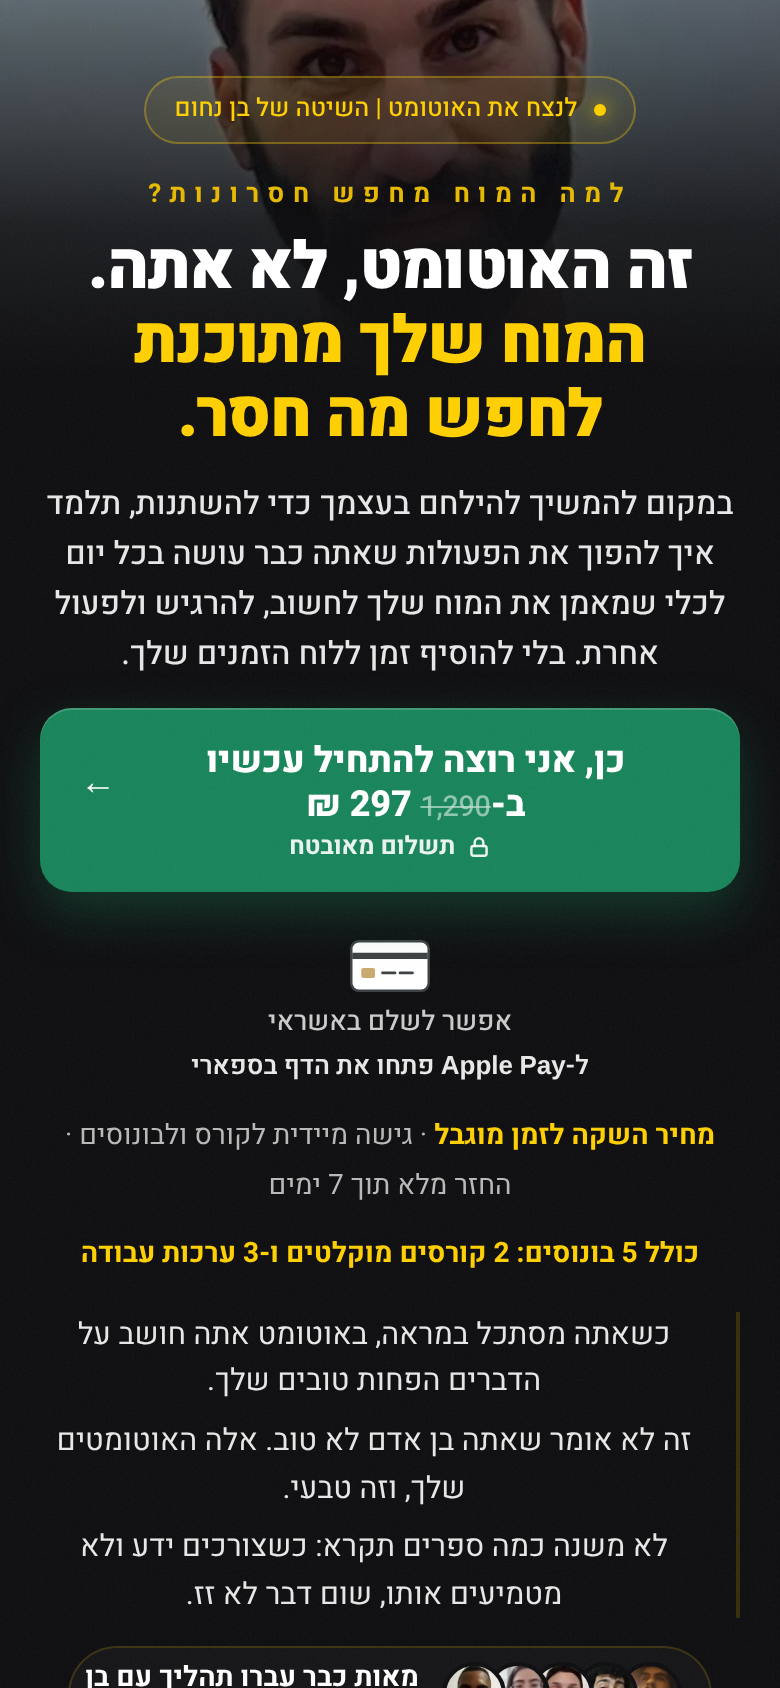
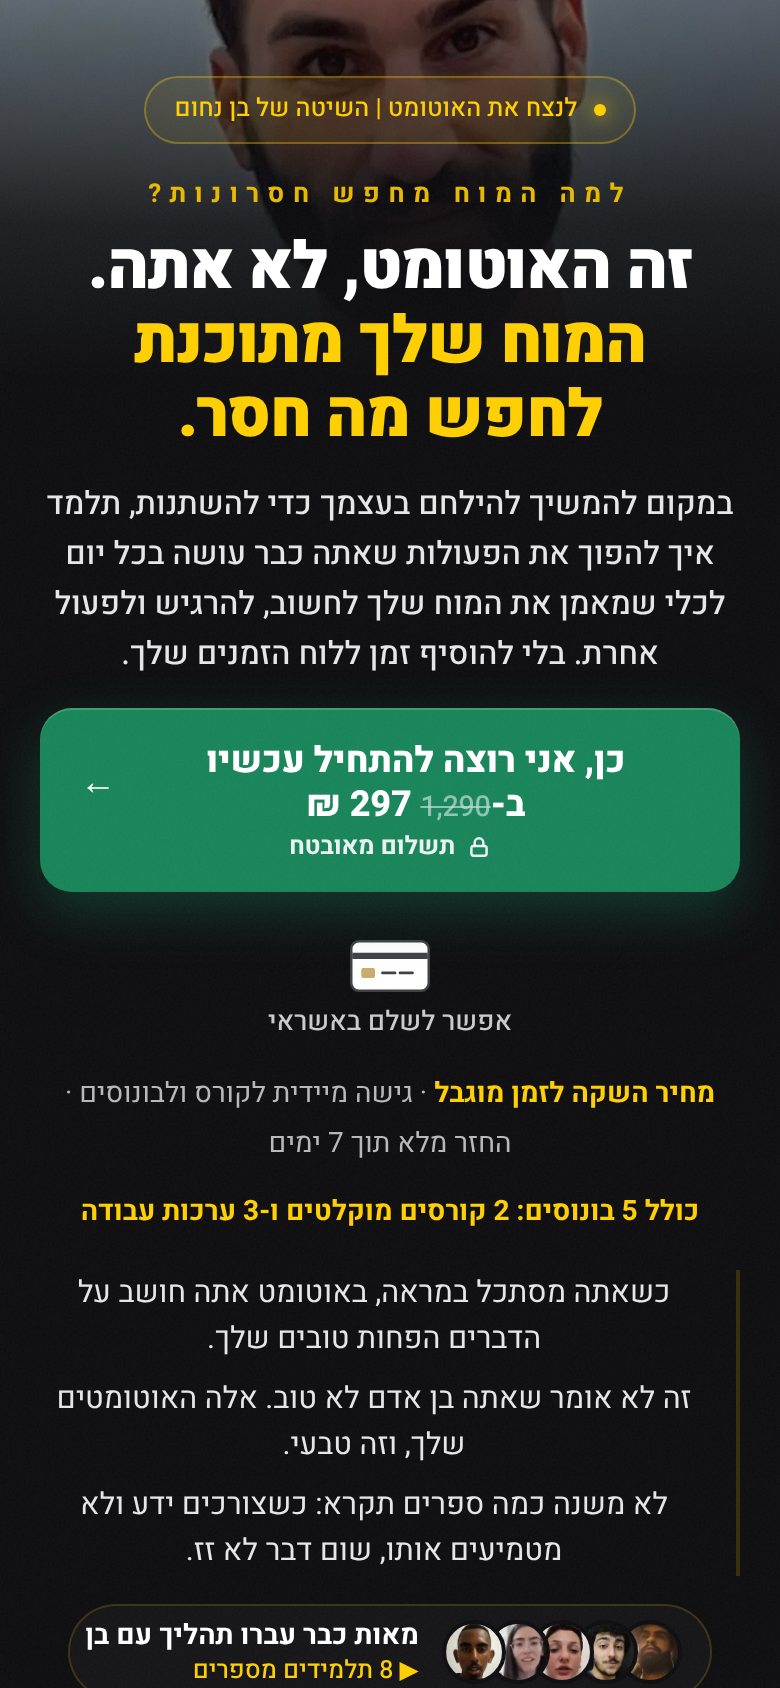
ב89: רמז רק בדף התשלום בנוסח המאושר, בדפי המכירה רק הסתרה - 58/58
Claude-Session: https://claude.ai/code/session_01AWaDsUUa9CSR7XwcRd86aw

diff --git a/claude/b89/t_paylogos.js b/claude/b89/t_paylogos.js
@@ -39,7 +39,7 @@ const ok = (c, m) => { if (c) pass++; else { fail++; console.log('FAIL', m); } }
       r.forEach(x => { ok(x.shown && x.apple && x.google && !x.bit && x.card, page + ' ' + ua + ' ' + x.where + ' logos ' + JSON.stringify(x));
         ok(x.t === FULL && x.h === '', page + ' ' + ua + ' text ' + x.t + '|' + x.h); });
     }
-    for (const [ua, hint] of [['ig_ios', 'ל-Apple Pay פתחו את הדף בספארי'], ['fb_ios', 'ל-Apple Pay פתחו את הדף בספארי'], ['ig_and', 'ל-Google Pay פתחו את הדף בכרום']]) {
+    for (const [ua, hint] of [['ig_ios', ''], ['fb_ios', ''], ['ig_and', '']]) {
       const { r } = await probe(page, ua);
       r.forEach(x => { ok(!x.apple && !x.google && !x.bit && x.card, page + ' ' + ua + ' ' + x.where + ' inapp logos');
         ok(x.t === 'אפשר לשלם באשראי' && x.h === hint, page + ' ' + ua + ' inapp text ' + x.t + '|' + x.h); });
@@ -62,7 +62,13 @@ const ok = (c, m) => { if (c) pass++; else { fail++; console.log('FAIL', m); } }
   {
     const { r } = await probe('checkout.html', 'ig_ios');
     const v = Object.fromEntries(r.map(x => [x.where, x]));
-    ok(!v.co_pay.apple && !v.co_pay.google && v.co_pay.h === 'ל-Apple Pay פתחו את הדף בספארי', 'checkout IG hint');
+    ok(!v.co_pay.apple && !v.co_pay.google && v.co_pay.h === 'ל-Apple Pay: לחצו על שלוש הנקודות למעלה ופתחו בספארי', 'checkout IG hint ' + v.co_pay.h);
+    const { r: ra } = await probe('checkout.html', 'ig_and');
+    const va = Object.fromEntries(ra.map(x => [x.where, x]));
+    ok(!va.co_pay.apple && !va.co_pay.google && va.co_pay.h === 'ל-Google Pay: לחצו על שלוש הנקודות למעלה ופתחו בכרום', 'checkout IG android hint ' + va.co_pay.h);
+    const { r: rf } = await probe('checkout.html', 'fb_ios', '?co=a');
+    const vf = Object.fromEntries(rf.map(x => [x.where, x]));
+    ok(vf.co_det.shown && !vf.co_det.apple && vf.co_det.h === 'ל-Apple Pay: לחצו על שלוש הנקודות למעלה ופתחו בספארי', 'checkout A FB hint ' + vf.co_det.h);
   }
   {
     const { r } = await probe('checkout_bit.html', 'safari');

diff --git a/claude/b89/shot_b89.js b/claude/b89/shot_b89.js
@@ -10,7 +10,7 @@ const J = [ ['checkout.html', '', '[data-paylogos="co_pay"]', 'checkout_b'], ['c
 (async () => {
   const b = await chromium.launch();
   for (const ua of ['safari', 'ig']) for (const [pg, q, sel, name] of J) {
-    if (ua === 'ig' && /withbit|checkout_a|offer/.test(name)) continue;
+    if (ua === 'ig' && /withbit|offer/.test(name)) continue;
     const ctx = await b.newContext({ userAgent: UA[ua], viewport: { width: 390, height: 844 }, deviceScaleFactor: 2, isMobile: true, hasTouch: true, reducedMotion: 'reduce' });
     const p = await ctx.newPage(); await p.route(/^(?!http:\/\/127\.0\.0\.1)/, r => r.abort());
     await p.goto(BASE + '/' + pg + q, { waitUntil: 'load' });

diff --git a/claude/b89/patch_paylogos.py b/claude/b89/patch_paylogos.py
@@ -4,7 +4,7 @@
 #  - a5v6 ו-pr2: מתחת לכפתור הראשי (hero_main) ומתחת לכפתור באזור המחיר (offer). אותו קטע בדיוק בשני הדפים.
 #  - ביט: מוסתר עד שיהב מאמת בטלפון שכפתור הביט מופיע (bit_url לא ריק). ההפעלה: PAYLOGO_BIT=true בשלושת הדפים יחד.
 #  - דפדפן פנימי של אינסטגרם/פייסבוק: Apple Pay ו-Google Pay לא נתמכים שם (WKWebView / WebView), אז הלוגואים שלהם מוסתרים
-#    ומוצג רמז קצר (הנוסח ממתין לאישור).
+#    ובדף התשלום בלבד מוצג רמז (נוסח מאושר, ראשי 13.11). בדפי המכירה רק מסתירים, בלי רמז.
 # שימוש: python3 patch_paylogos.py <nlp dir מקור> <nlp dir יעד>
 import sys, os, shutil
 SRC, OUT = sys.argv[1], sys.argv[2]
@@ -40,7 +40,9 @@ var els=document.querySelectorAll("[data-paylogos]");for(var i=0;i<els.length;i+
  if(!inapp){p.push("\u2066Apple Pay\u2069","\u2066Google Pay\u2069")} /* בידוד כיווניות, כדי שהשמות באנגלית לא יהפכו את סדר המשפט */if(PAYLOGO_BIT)p.push("ביט");
  var t=el.querySelector(".pl-t"),h=el.querySelector(".pl-h");
  t.textContent=inapp?(PAYLOGO_BIT?"אפשר לשלם בביט או באשראי":"אפשר לשלם באשראי"):"אפשר לשלם ב-"+p.join(", ")+" או אשראי";
- if(inapp){h.textContent=ios?"ל-\u2066Apple Pay\u2069 פתחו את הדף בספארי":and?"ל-\u2066Google Pay\u2069 פתחו את הדף בכרום":"ל-\u2066Apple Pay\u2069 או \u2066Google Pay\u2069 פתחו את הדף בדפדפן";h.hidden=false}
+ /* ב89 (מאשר ב89 - פריסה): רמז רק בדף התשלום (co_*), ורק באייפון/אנדרואיד. בדפי המכירה רק מסתירים */
+ var hint=!inapp||!/^co_/.test(el.getAttribute("data-paylogos")||"")?"":ios?"ל-\u2066Apple Pay\u2069: לחצו על שלוש הנקודות למעלה ופתחו בספארי":and?"ל-\u2066Google Pay\u2069: לחצו על שלוש הנקודות למעלה ופתחו בכרום":"";
+ if(hint){h.textContent=hint;h.hidden=false}
  el.setAttribute("data-inapp",inapp?"1":"0")}
 })();</script>
 '''

diff --git a/claude/b89/README.md b/claude/b89/README.md
@@ -17,10 +17,11 @@
 - **דפדפן פנימי של אינסטגרם ופייסבוק:**
   - הזיהוי לפי UA: Instagram, FBAN, FBAV, FB_IAB, FBIOS, FB4A.
   - שם מוסתרים הלוגואים של Apple Pay ו-Google Pay, והטקסט הוא "אפשר לשלם באשראי", או "בביט או באשראי" כשביט מופעל.
-  - **רמז קצר:**
-    - באייפון: "ל-Apple Pay פתחו את הדף בספארי".
-    - באנדרואיד: "ל-Google Pay פתחו את הדף בכרום".
-  - נוסח הרמז ממתין לאישור.
+  - **רמז (נוסח מאושר, "מאשר ב89 - פריסה", ראשי 13.11) - רק בדף התשלום:**
+    - באייפון: "ל-Apple Pay: לחצו על שלוש הנקודות למעלה ופתחו בספארי".
+    - באנדרואיד: "ל-Google Pay: לחצו על שלוש הנקודות למעלה ופתחו בכרום".
+  - בדפי המכירה (a5v6, pr2): רק מסתירים את Apple Pay ו-Google Pay, בלי רמז.
+- **ביט:** נשאר מוסתר עד שיהב מאמת את הכפתור. את קובץ הלוגו הרשמי מבקשים מקארדקום.
 
 ## מקורות הלוגואים והנחיות המותג
 | סימן | מקור | שינוי |
@@ -46,7 +47,7 @@
 - **הצעה לבדיקה:** ליהב בטלפון - לפתוח את הקישור מתוך הודעה באינסטגרם ובפייסבוק, ולבדוק אם בטופס של קארדקום מופיעים Apple Pay או Google Pay.
 
 ## בדיקות
-- `node t_paylogos.js`: 56/56.
+- `node t_paylogos.js`: 58/58.
   - שלושת הדפים בספארי, בכרום באנדרואיד ובאינסטגרם ובפייסבוק (iOS ו-Android).
   - שתי גרסאות הסליקה, ביט כבוי ומופעל.
   - גובה 26px, ובלי שגיאות JS.
